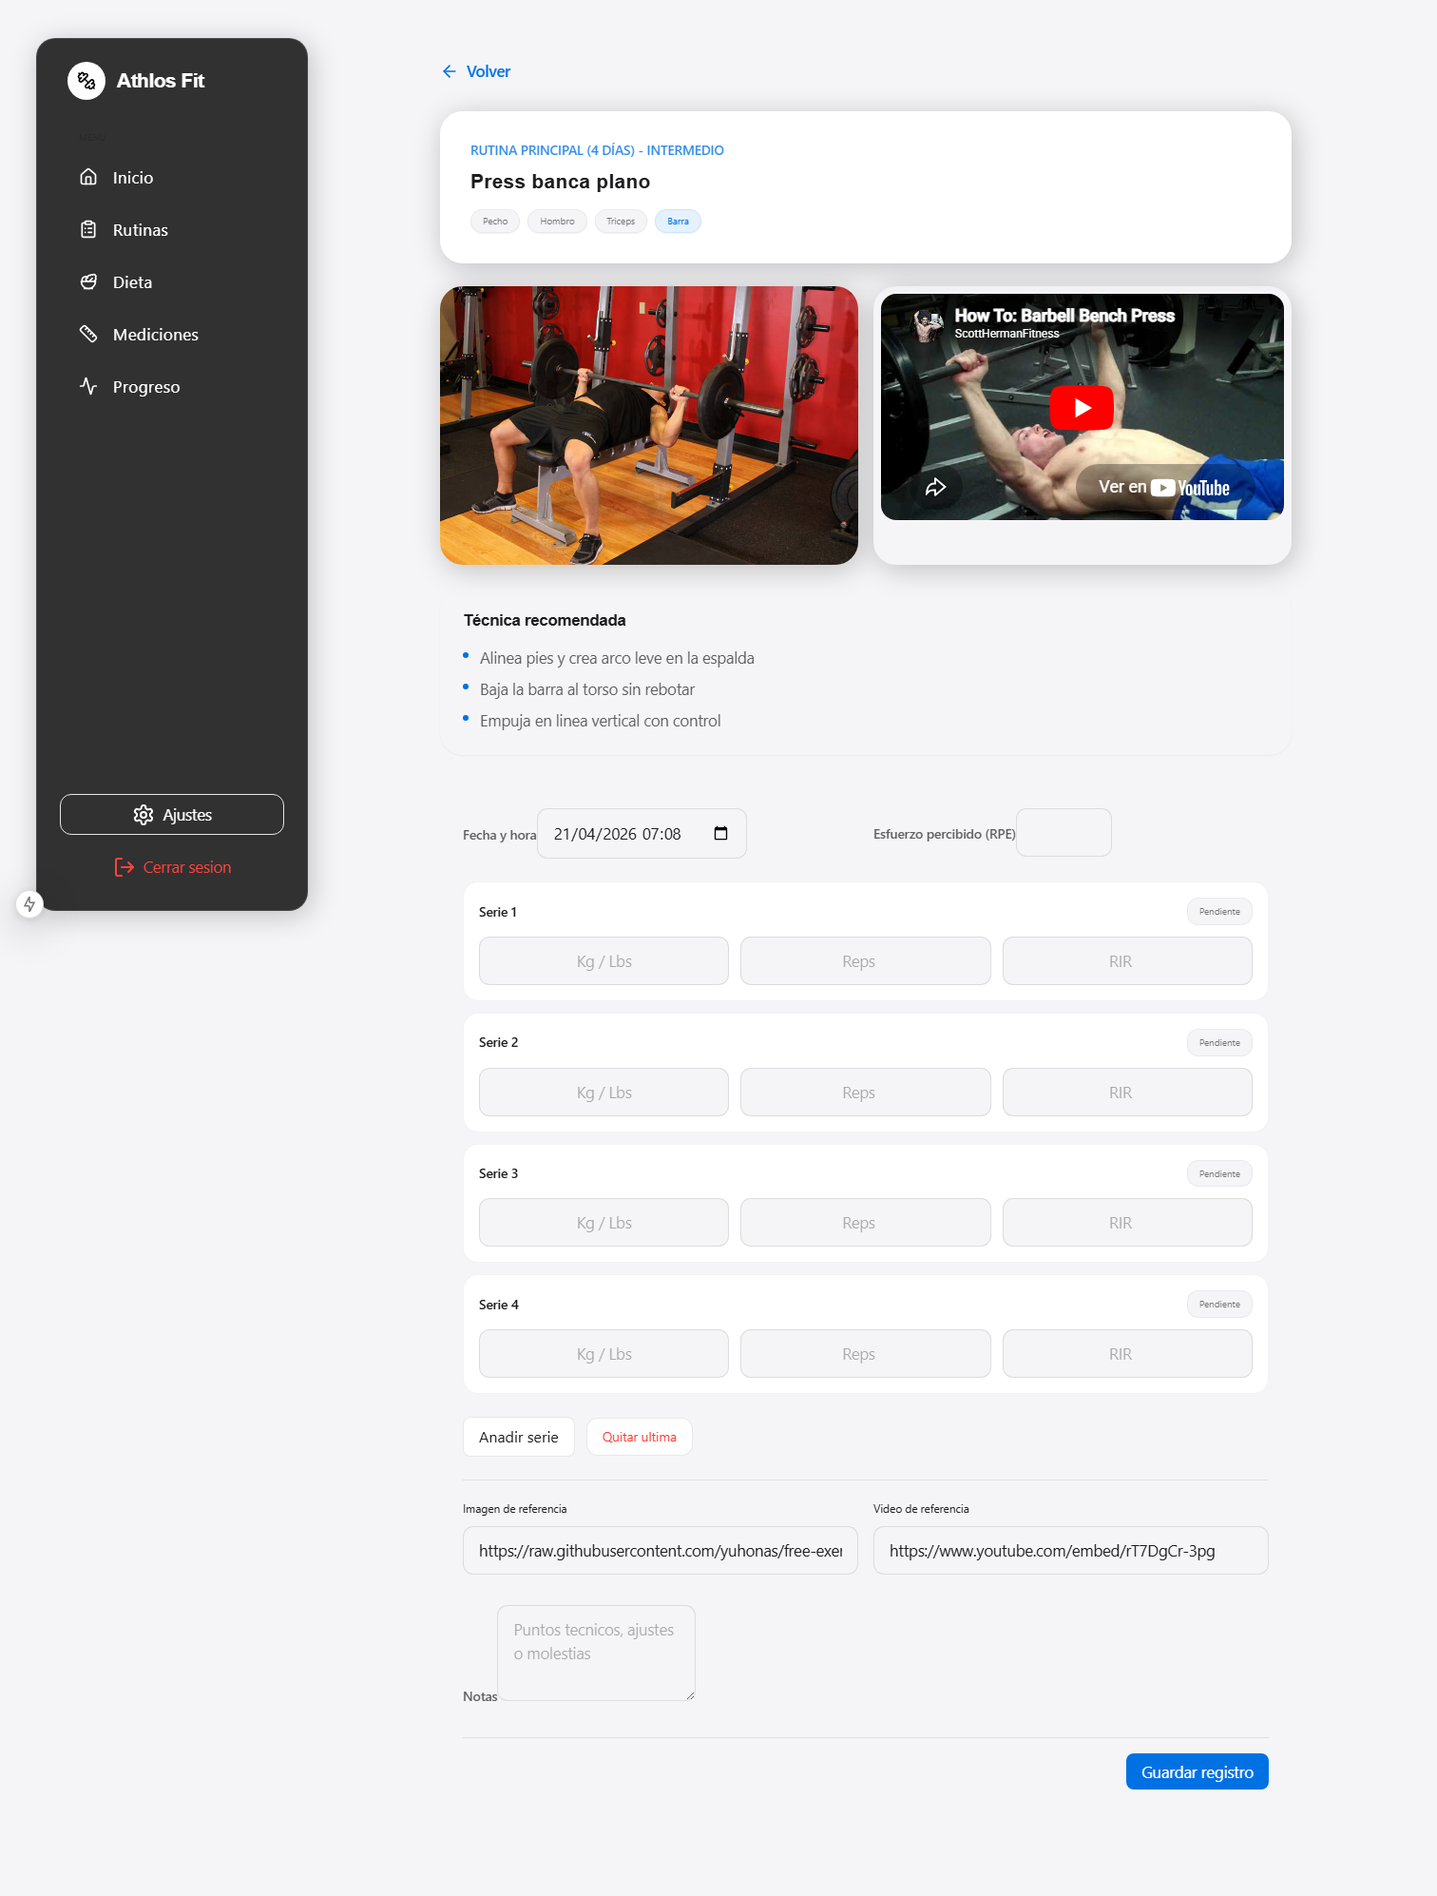
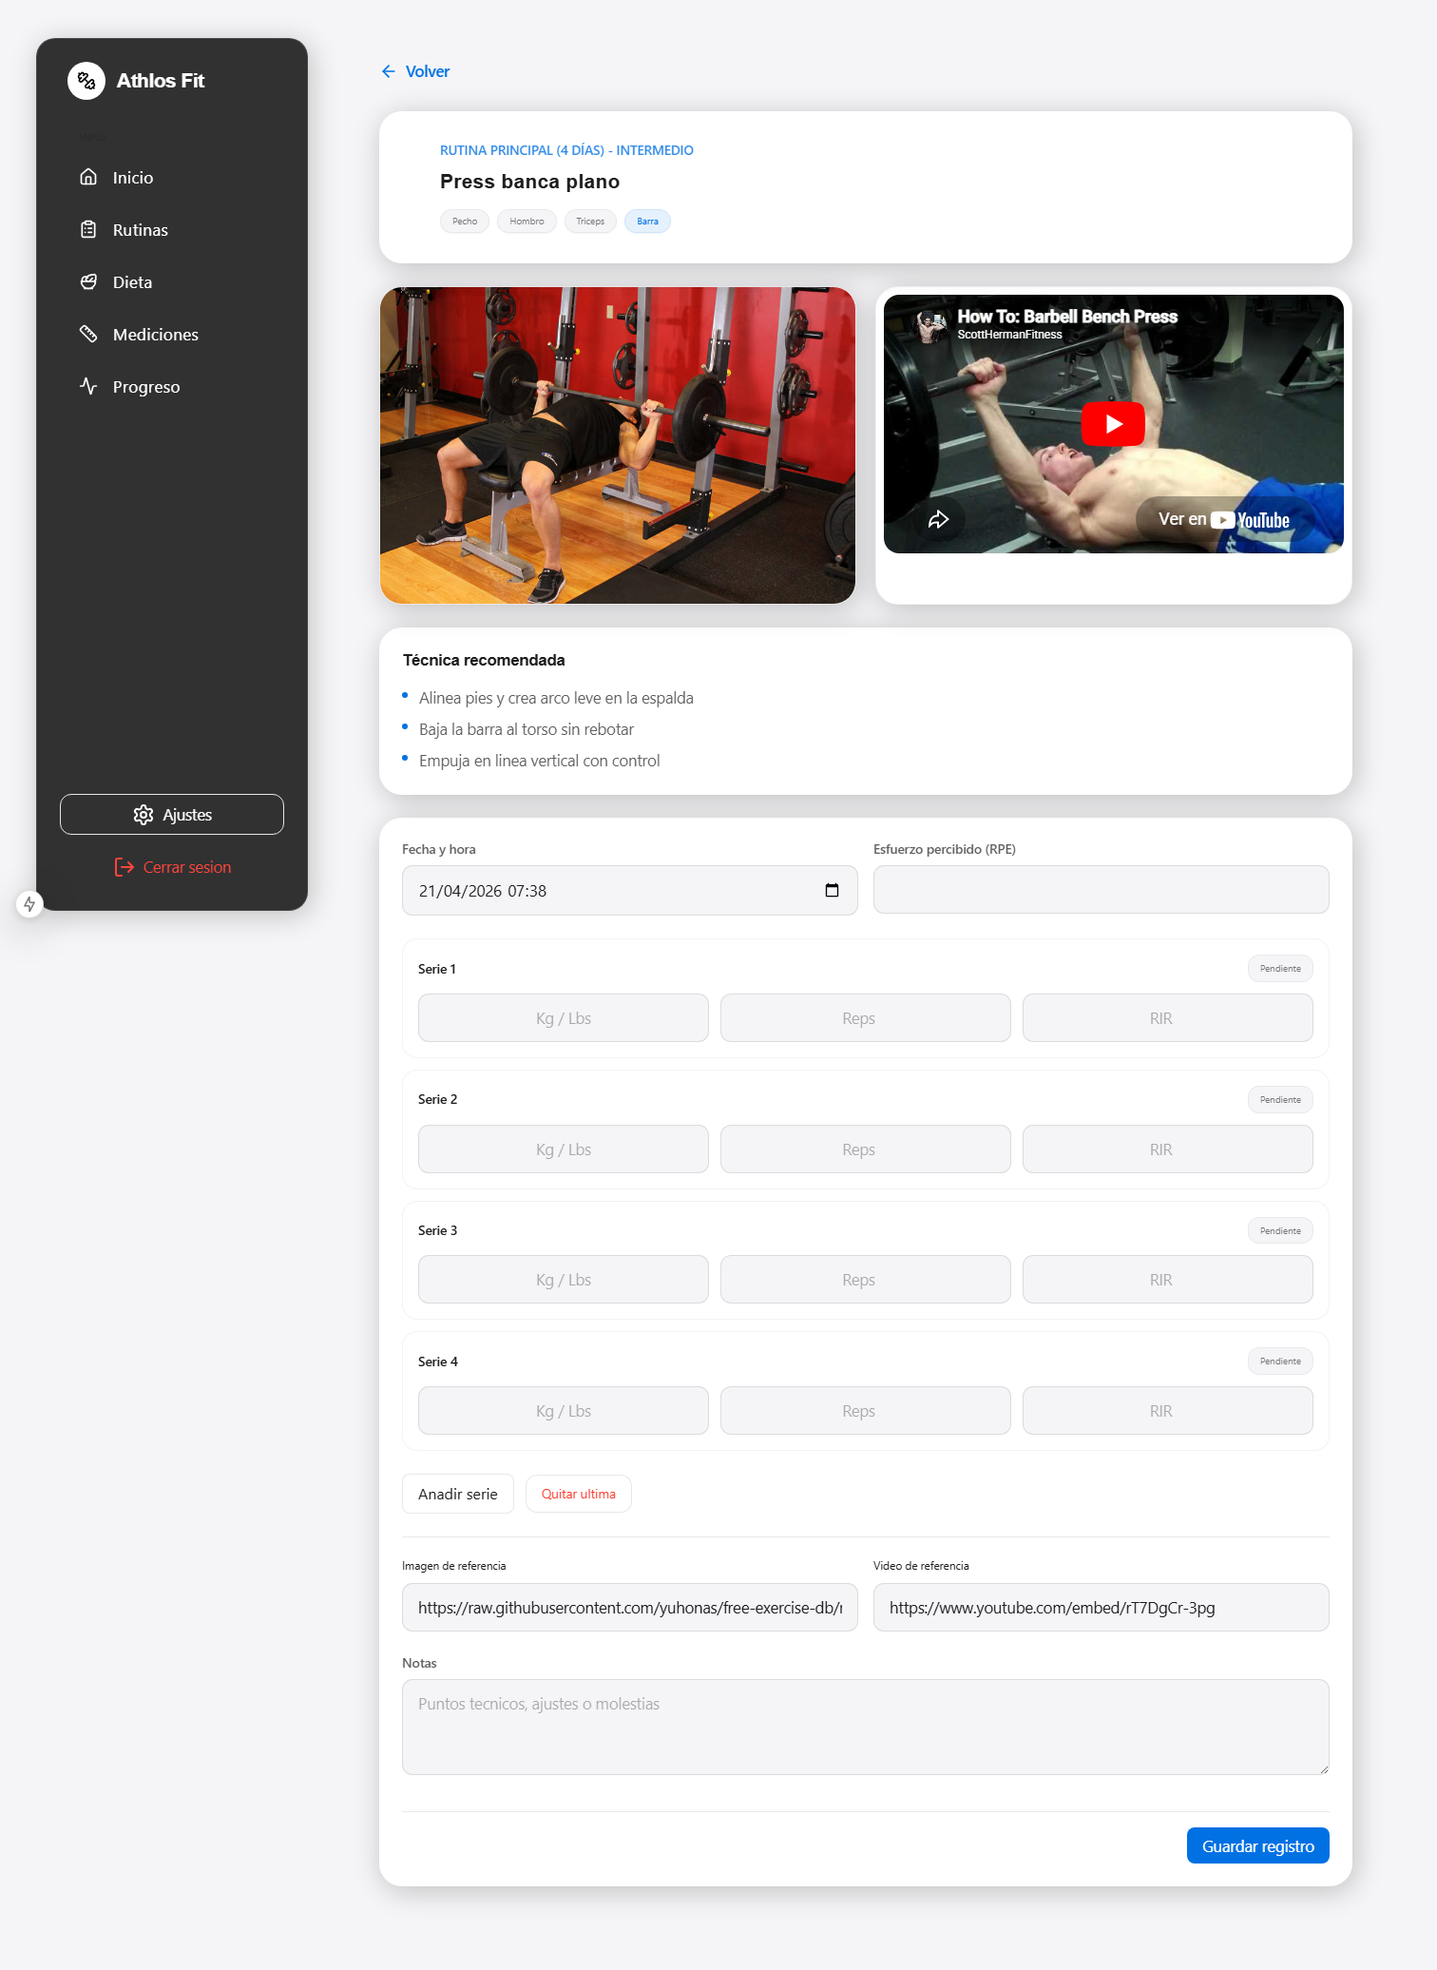
revisado margenes

diff --git a/components/exercise/session-form.tsx b/components/exercise/session-form.tsx
@@ -26,25 +26,27 @@ export default function SessionForm({
   handleSetField,
 }: SessionFormProps) {
   return (
-    <section className="apple-panel-muted p-6">
+    <section className="apple-panel p-4 sm:p-6">
       <form className="space-y-6" onSubmit={(event) => event.preventDefault()}>
-        <div className="grid gap-4 md:grid-cols-2">
+        <div className="grid gap-4 sm:grid-cols-2">
           <div className="space-y-2">
-            <label className="sf-text-caption-strong text-apple-near-black/70 dark:text-white/70">Fecha y hora</label>
+            <label className="block sf-text-caption-strong text-apple-near-black/70 dark:text-white/70">Fecha y hora</label>
             <input
               type="datetime-local"
               value={session.sessionDate}
               onChange={(event) => setSession((prev) => ({ ...prev, sessionDate: event.target.value }))}
+              className="w-full"
             />
           </div>
           <div className="space-y-2">
-            <label className="sf-text-caption-strong text-apple-near-black/70 dark:text-white/70">Esfuerzo percibido (RPE)</label>
+            <label className="block sf-text-caption-strong text-apple-near-black/70 dark:text-white/70">Esfuerzo percibido (RPE)</label>
             <input
               type="number"
               min="1"
               max="10"
               value={session.perceivedEffort}
               onChange={(event) => setSession((prev) => ({ ...prev, perceivedEffort: event.target.value }))}
+              className="w-full"
             />
           </div>
         </div>
@@ -75,20 +77,20 @@ export default function SessionForm({
                   {set.completed ? "Completada" : "Pendiente"}
                 </button>
               </div>
-              <div className="grid grid-cols-3 gap-3 text-sm">
+              <div className="grid grid-cols-3 gap-2.5 text-sm sm:gap-3">
                 <input
                   type="text"
                   placeholder="Kg / Lbs"
                   value={set.weight}
                   onChange={(event) => handleSetField(index, "weight")(event.target.value)}
-                  className="text-center"
+                  className="w-full text-center"
                 />
                 <input
                   type="number"
                   placeholder="Reps"
                   value={set.reps}
                   onChange={(event) => handleSetField(index, "reps")(event.target.value)}
-                  className="text-center"
+                  className="w-full text-center"
                   min="0"
                 />
                 <input
@@ -96,7 +98,7 @@ export default function SessionForm({
                   placeholder="RIR"
                   value={set.rir}
                   onChange={(event) => handleSetField(index, "rir")(event.target.value)}
-                  className="text-center"
+                  className="w-full text-center"
                   min="0"
                   max="5"
                 />
@@ -105,14 +107,14 @@ export default function SessionForm({
           ))}
         </div>
 
-        <div className="flex items-center gap-3">
-          <button type="button" onClick={addExtraSet} className="btn-apple-ghost">
+        <div className="grid grid-cols-2 gap-2.5 sm:flex sm:items-center sm:gap-3">
+          <button type="button" onClick={addExtraSet} className="btn-apple-ghost w-full sm:w-auto">
             Anadir serie
           </button>
           <button
             type="button"
             onClick={removeLastSet}
-            className="rounded-xl border border-apple-near-black/10 bg-white px-4 py-2.5 sf-text-caption font-semibold text-[#FF3B30] transition hover:bg-[#FF3B30]/5 dark:border-white/15 dark:bg-apple-surface-1"
+            className="w-full rounded-xl border border-apple-near-black/10 bg-white px-4 py-2.5 sf-text-caption font-semibold text-[#FF3B30] transition hover:bg-[#FF3B30]/5 sm:w-auto dark:border-white/15 dark:bg-apple-surface-1"
           >
             Quitar ultima
           </button>
@@ -134,12 +136,13 @@ export default function SessionForm({
         </div>
 
         <div className="space-y-2 pb-2">
-          <label className="sf-text-caption-strong text-apple-near-black/70 dark:text-white/70">Notas</label>
+          <label className="block sf-text-caption-strong text-apple-near-black/70 dark:text-white/70">Notas</label>
           <textarea
             rows={3}
             value={session.notes}
             onChange={(event) => setSession((prev) => ({ ...prev, notes: event.target.value }))}
             placeholder="Puntos tecnicos, ajustes o molestias"
+            className="w-full"
           />
         </div>
 

diff --git a/app/(app)/routines/detail/page.tsx b/app/(app)/routines/detail/page.tsx
@@ -98,29 +98,30 @@ function RoutineOverviewContent() {
       <section className="space-y-4">
         <h2 className="sf-text-body-strong px-2 text-apple-near-black dark:text-white">Dias de entrenamiento</h2>
         <div className="space-y-3">
-          {sortedDays.map((day) => (
-            <Link
-              key={day.id}
-              href={`/routines/day?routineId=${routine.id}&dayId=${day.id}`}
-              className="apple-panel group rounded-2xl p-5 transition-colors hover:bg-apple-gray dark:hover:bg-apple-surface-2"
-            >
-              <div className="mb-4 flex items-center gap-4 border-b border-apple-near-black/5 pb-4 dark:border-white/5">
-                <span className="flex h-10 w-10 items-center justify-center rounded-full bg-apple-gray text-base font-semibold text-apple-blue dark:bg-apple-surface-2">
-                  {day.focus?.charAt(0) || "#"}
-                </span>
-                <div className="flex-1">
-                  <p className="sf-text-body-strong text-apple-near-black dark:text-white">{day.title}</p>
-                  <p className="sf-text-caption text-apple-near-black/60 dark:text-white/60">
-                    {day.exercises.length} ejercicios{day.focus ? ` - ${day.focus}` : ""}
-                  </p>
-                </div>
-                <ChevronRight className="h-5 w-5 text-apple-near-black/30 transition-colors group-hover:text-apple-blue dark:text-white/30" />
-              </div>
+          {sortedDays.map((day, index) => (
+            <Link key={day.id} href={`/routines/day?routineId=${routine.id}&dayId=${day.id}`} className="group block">
+              <article className="apple-panel rounded-2xl border border-apple-near-black/5 p-4 transition-colors hover:bg-apple-gray sm:p-5 dark:border-white/5 dark:hover:bg-apple-surface-2">
+                <div className="flex items-start gap-3 sm:gap-4">
+                  <span className="flex h-10 w-10 flex-shrink-0 items-center justify-center rounded-full bg-apple-gray text-sm font-semibold text-apple-blue dark:bg-apple-surface-2">
+                    {index + 1}
+                  </span>
 
-              <div className="flex items-center justify-between">
-                <span className="sf-text-nano uppercase tracking-widest text-apple-blue">{day.focus || "General"}</span>
-                <span className="sf-text-link text-apple-blue">Ver dia en detalle</span>
-              </div>
+                  <div className="min-w-0 flex-1">
+                    <div className="flex items-start justify-between gap-2">
+                      <div className="min-w-0">
+                        <p className="line-clamp-1 sf-text-body-strong text-apple-near-black dark:text-white">{day.title}</p>
+                        <p className="sf-text-caption text-apple-near-black/60 dark:text-white/60">{day.exercises.length} ejercicios</p>
+                      </div>
+                      <ChevronRight className="mt-0.5 h-5 w-5 flex-shrink-0 text-apple-near-black/30 transition-colors group-hover:text-apple-blue dark:text-white/30" />
+                    </div>
+
+                    <div className="mt-3 flex items-center justify-between gap-2 border-t border-apple-near-black/5 pt-3 dark:border-white/5">
+                      <span className="line-clamp-1 sf-text-nano uppercase tracking-widest text-apple-blue">{day.focus || "General"}</span>
+                      <span className="sf-text-link text-apple-blue">Ver detalle</span>
+                    </div>
+                  </div>
+                </div>
+              </article>
             </Link>
           ))}
         </div>

diff --git a/app/(app)/diet/editor/page.tsx b/app/(app)/diet/editor/page.tsx
@@ -186,8 +186,8 @@ export default function DietEditorPage() {
 
     if (isSearchOpen) {
         return (
-            <div className="pb-32 pt-6 lg:pb-12 max-w-2xl mx-auto w-full px-4 lg:px-0 mt-4 md:mt-0 flex flex-col min-h-screen">
-                <div className="flex items-center justify-between border-b border-apple-near-black/5 dark:border-white/5 pb-4 mb-4 mt-6">
+            <div className="apple-page-shell max-w-2xl flex min-h-[70vh] flex-col space-y-4">
+                <div className="flex items-center justify-between border-b border-apple-near-black/5 pb-4 dark:border-white/5">
                     <h2 className="sf-text-body-strong text-apple-near-black dark:text-white">Añadir alimento</h2>
                     <button onClick={() => setIsSearchOpen(false)} className="sf-text-body text-apple-blue hover:opacity-80 transition-opacity">Cerrar</button>
                 </div>
@@ -199,8 +199,8 @@ export default function DietEditorPage() {
     }
 
     return (
-        <div className="pb-32 pt-4 lg:pb-12 max-w-2xl mx-auto w-full px-4 lg:px-0 mt-4 md:mt-0">
-            <header className="sticky top-0 z-20 -mx-4 -mt-4 mb-6 border-b border-apple-near-black/5 dark:border-white/5 bg-white/85 dark:bg-apple-surface-1/85 px-4 py-4 backdrop-blur-xl sm:mx-0 sm:mt-0 sm:rounded-t-3xl shadow-sm">
+        <div className="apple-page-shell max-w-2xl space-y-5">
+            <header className="sticky top-0 z-20 rounded-3xl border border-apple-near-black/5 bg-white/90 px-4 py-4 shadow-sm backdrop-blur-xl dark:border-white/5 dark:bg-apple-surface-1/90">
                 <div className="flex items-center gap-3">
                     <button onClick={() => router.back()} className="text-apple-blue hover:opacity-80 transition-opacity">
                         <ChevronLeft className="h-7 w-7" />

diff --git a/components/ui/media-showcase.tsx b/components/ui/media-showcase.tsx
@@ -47,14 +47,14 @@ export default function MediaShowcase({ image, video }: MediaShowcaseProps) {
   const isYouTube = Boolean(video && isYouTubeUrl(video));
   const videoSrc = video ? (isYouTube ? normalizeYouTubeEmbed(video) : video) : null;
   return (
-    <section className="grid gap-4 md:grid-cols-2">
+    <section className="grid gap-4 sm:gap-5 md:grid-cols-2">
       {hasImage && image && (
-        <figure className="overflow-hidden rounded-3xl border-none shadow-apple-card">
+        <figure className="overflow-hidden rounded-3xl border border-apple-near-black/5 shadow-apple-card dark:border-white/5">
           <Image src={image} alt="Referencia del ejercicio" className="h-full w-full object-cover" loading="lazy" width={500} height={500} />
         </figure>
       )}
       {hasVideo && videoSrc && (
-        <div className="rounded-3xl border-none shadow-apple-card bg-apple-gray dark:bg-apple-surface-2 p-2">
+        <div className="rounded-3xl border border-apple-near-black/5 bg-white p-2 shadow-apple-card dark:border-white/5 dark:bg-apple-surface-1">
           {isYouTube ? (
             <div className="aspect-video w-full overflow-hidden rounded-2xl">
               <iframe

diff --git a/app/(app)/settings/profile/page.tsx b/app/(app)/settings/profile/page.tsx
@@ -137,7 +137,7 @@ export default function ProfilePage() {
     // --- VIEW MODE (DASHBOARD) ---
     if (!isEditing) {
         return (
-            <div className="pb-32 pt-6 lg:pb-12 max-w-3xl mx-auto w-full space-y-8 px-5 lg:px-0">
+            <div className="apple-page-shell max-w-3xl space-y-8">
                 <header className="flex items-center justify-between">
                     <h1 className="sf-display-section text-apple-near-black dark:text-white">Perfil</h1>
                     <button
@@ -233,7 +233,7 @@ export default function ProfilePage() {
 
     // --- EDIT MODE ---
     return (
-        <div className="pb-32 pt-6 lg:pb-12 max-w-3xl mx-auto w-full space-y-8 px-5 lg:px-0">
+        <div className="apple-page-shell max-w-3xl space-y-8">
             <header className="flex items-center gap-3">
                 <button onClick={() => setIsEditing(false)} className="text-apple-blue hover:opacity-80 transition-opacity">
                     <ArrowLeft className="h-6 w-6" />

diff --git a/app/(app)/workout/finish/page.tsx b/app/(app)/workout/finish/page.tsx
@@ -66,7 +66,7 @@ export default function WorkoutFinishPage() {
 
   if (saved) {
     return (
-      <div className="apple-page-shell max-w-lg pt-12">
+      <div className="apple-page-shell max-w-lg pt-6">
         <div className="apple-panel flex flex-col items-center justify-center p-12 text-center">
           <CheckCircle2 className="mb-6 h-20 w-20 text-[#34C759]" />
           <h1 className="mb-2 sf-display-card-title text-apple-near-black dark:text-white">Entrenamiento guardado</h1>
@@ -78,7 +78,7 @@ export default function WorkoutFinishPage() {
 
   return (
     <div className="apple-page-shell max-w-xl space-y-8">
-      <div className="mx-auto w-full space-y-8 py-10">
+      <div className="mx-auto w-full space-y-8 py-6 sm:py-10">
         <div className="mb-10 text-center">
           <h1 className="mb-3 sf-display-hero text-apple-near-black dark:text-white">Gran trabajo</h1>
           <p className="sf-text-subnav text-apple-near-black/60 dark:text-white/60">

diff --git a/app/(app)/exercises/detail/page.tsx b/app/(app)/exercises/detail/page.tsx
@@ -214,7 +214,7 @@ function ExerciseDetailContent() {
 
   if (!exercise) {
     return (
-      <div className="pb-32 pt-6 lg:pb-12 max-w-4xl mx-auto w-full space-y-8 px-5 lg:px-0 mt-4 md:mt-0">
+      <div className="apple-page-shell max-w-4xl space-y-6">
         <div className="space-y-4 rounded-3xl bg-white dark:bg-apple-surface-1 shadow-apple-card p-6 text-center border-none">
           <h1 className="sf-text-body-strong text-apple-near-black dark:text-white">Ejercicio no encontrado</h1>
           <p className="sf-text-body text-apple-near-black/60 dark:text-white/60">
@@ -327,7 +327,7 @@ function ExerciseDetailContent() {
   };
 
   return (
-    <div className="pb-32 pt-6 lg:pb-12 max-w-4xl mx-auto w-full space-y-6 px-5 lg:px-0 mt-4 md:mt-0">
+    <div className="apple-page-shell max-w-4xl space-y-6">
       {renderBackButton()}
 
       {routine && <ExerciseHeader exercise={exercise as RoutineExercise} routine={routine} />}

diff --git a/app/(app)/workout/active/page.tsx b/app/(app)/workout/active/page.tsx
@@ -30,8 +30,8 @@ export default function ActiveWorkoutPage() {
   }
 
   return (
-    <div className="apple-page-shell max-w-3xl pt-4">
-      <header className="sticky top-0 z-20 -mx-4 -mt-4 mb-6 flex items-center justify-between border-b border-apple-near-black/5 bg-white/85 px-4 py-4 backdrop-blur-xl dark:border-white/5 dark:bg-apple-surface-1/85 sm:mx-0 sm:mt-0 sm:rounded-t-3xl">
+    <div className="apple-page-shell max-w-3xl space-y-6">
+      <header className="sticky top-0 z-20 mb-2 flex items-center justify-between rounded-3xl border border-apple-near-black/5 bg-white/90 px-4 py-4 shadow-sm backdrop-blur-xl dark:border-white/5 dark:bg-apple-surface-1/90">
         <div className="flex items-center gap-3">
           <button onClick={() => router.back()} className="text-apple-blue transition-opacity hover:opacity-80">
             <ArrowLeft className="h-6 w-6" />

diff --git a/styles/globals.css b/styles/globals.css
@@ -197,15 +197,15 @@
   }
 
   .apple-page-shell {
-    @apply mx-auto w-full max-w-5xl px-5 pb-32 pt-6 lg:px-0 lg:pb-12;
+    @apply mx-auto w-full max-w-5xl px-4 pt-5 pb-28 sm:px-5 sm:pt-6 sm:pb-32 lg:px-0 lg:pb-12;
   }
 
   .apple-panel {
-    @apply rounded-3xl bg-white p-6 shadow-apple-card dark:bg-apple-surface-1;
+    @apply rounded-3xl bg-white p-5 sm:p-6 shadow-apple-card dark:bg-apple-surface-1;
   }
 
   .apple-panel-muted {
-    @apply rounded-3xl bg-apple-gray p-6 dark:bg-apple-surface-2;
+    @apply rounded-3xl bg-apple-gray p-5 sm:p-6 dark:bg-apple-surface-2;
   }
 
   .apple-kicker {

diff --git a/components/exercise/technique-guide.tsx b/components/exercise/technique-guide.tsx
@@ -6,7 +6,7 @@ type TechniqueGuideProps = {
 
 export default function TechniqueGuide({ exercise }: TechniqueGuideProps) {
   return (
-    <section className="rounded-3xl border-none bg-apple-gray dark:bg-apple-surface-2 p-6 shadow-sm">
+    <section className="apple-panel p-5 sm:p-6">
       <h2 className="sf-text-body-strong text-apple-near-black dark:text-white">Técnica recomendada</h2>
       <ul className="mt-4 space-y-2 sf-text-body text-apple-near-black/70 dark:text-white/70">
         {exercise.technique?.map((tip) => (

diff --git a/app/(app)/layout.tsx b/app/(app)/layout.tsx
@@ -32,7 +32,7 @@ export default function AppLayout({ children }: { children: ReactNode }) {
               </div>
             </aside>
 
-            <div className="flex flex-1 flex-col pb-40 pt-6 sm:pt-8 lg:pb-0 lg:pt-0">
+            <div className="flex flex-1 flex-col pb-8 pt-6 sm:pb-10 sm:pt-8 lg:pb-0 lg:pt-0">
               <main className="flex-1">
                 {children}
               </main>
